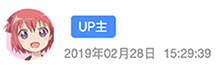
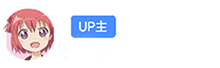
color picker

Changed region(s): [[0.2727, 0.6765, 0.7091, 0.8824], [0.7364, 0.7059, 0.9818, 0.8529], [0.3545, 0.5294, 0.4364, 0.5588]]

diff --git a/index.html b/index.html
@@ -71,6 +71,14 @@
             text-indent: 127px;
             line-height: 54px;
         }
+        .posttime{
+            color: #999;
+            line-height: normal;
+               text-indent: 70px;
+               font-size: 12px;
+               height: 12px;
+               margin-top: -10px;
+        }
         .hexgon{
             width: 150px;
             height: 150px;
@@ -104,17 +112,34 @@
         <input type="text" id="comment" class="form-control input-sm"  v-model="comment" >
     </div>
     <div class="form-group">
-        <label for="content">内容</label>
+        <label for="content">内容 <button class="btn btn-sm btn-danger"  @click="content = ''">清空</button></label>
         <textarea id="content" class="form-control input-sm"  v-model="content" rows="7"></textarea>
     </div>
     <div class="form-group">
         <label for="summary">总评</label>
         <input type="text" id="summary" class="form-control input-sm"  v-model="summary" >
     </div>
-    <div class="form-group">
+  
+     <div class="form-group">  
         <label for="score">评分</label>
         <input type="range" id="score" class="form-control input-sm"  v-model.number="score" max="10" min="0" step="0.1">
+
     </div>
+      <div class="form-group">
+        <div class="col-md-4">
+             <label for="startcolor">0分色</label>
+            <input type="color" id="startcolor" class="form-control input-sm"  v-model="startcolor" >
+        </div>
+       
+        <div class="col-md-4">
+             <label for="endcolor">10分色</label>
+             <input type="color" id="endcolor" class="form-control input-sm"  v-model="endcolor" >
+        </div>
+        <div class="col-md-4">
+             <button class="btn btn-default"  @click="defaultColor">默认颜色</button>
+        </div>
+        <div class="clearfix"></div>
+      </div>
      <div class="form-group">
         <label for="content">预览
             <button class="btn btn-sm btn-success" v-if="acid" @click="captureImage">下载</button>
@@ -127,7 +152,11 @@
             <div class="preview" >
                 <div class="col-md-6 col-xs-6 col-sm-6" style="position: relative">
                     <p class="text-overflow h4 title">{{title}}</p>
-                    <div class="text-overflow author">{{author}}</div>
+                    <div class="text-overflow author">{{author}}
+                    <div class="posttime" v-if="posttime">
+                        {{moment(posttime).format('YYYY年MM月DD日 HH:mm:ss')}}
+                    </div>
+                    </div>
                     <div class="score">
                           <div id="canvas" class="hexgon">
         
@@ -173,9 +202,12 @@
                 article:'',
                 author:'',
                 acid:'',
+                posttime:'',
                 uploadUrl:'',
                 layer:'',
                 hexgon:'',
+                startcolor:'#b9e589',
+                endcolor:'#294e01',
                 colors:[],
                 bgc:"1"
             }
@@ -186,33 +218,31 @@
                 alert('复制成功')
                 e.clearSelection();
             });
-            this. getRgb();
+            this.getRgb(this.hexToRgb(this.startcolor),this.hexToRgb(this.endcolor));
             this.$nextTick(()=>{
                   var stage = new Konva.Stage({
               container: 'canvas',   // id of container <div> 
               width: 150,
               height: 150
             });
-
             // then create layer 
             this.layer = new Konva.Layer();
-
             // create our shape 
             this.hexgon = new Konva.RegularPolygon({
-              x: 75,
-              y: 75,
-              radius: 60,
-              sides: 6,
-              fill: '#294e01',
-              stroke: 'white',
+                x: 75,
+                y: 75,
+                radius: 60,
+                sides: 6,
+                fill: '#294e01',
+                stroke: 'white',
                 shadowColor: 'grey',
                 shadowBlur: 10,
                 shadowOffset: {
                     x : 0,
                     y : 0
                 },
-            shadowOpacity: 0.6,
-            strokeWidth: 7
+                shadowOpacity: 0.6,
+                strokeWidth: 7
             });
 
             // add the shape to the layer 
@@ -227,16 +257,29 @@
                 localStorage.setItem("comment",nv)
             },
             score(nv){
-                this.hexgon.attrs.fill = this.colors[nv*10]
-                this.layer.draw()
-                console.log(this.colors[nv*10],nv*10)
-                this.bgc = this.colors[nv*10]
+                this.colorChange()
+            },
+            startcolor(nv){
+                this.colorChange()
+            }, 
+            endcolor(nv){
+                this.colorChange()
             }
         },
         methods:{
-            getRgb(){
-                let end = {r:41,g:78,b:1}
-                let start = {r:185,g:229,b:137}
+            defaultColor(){
+                this.startcolor = '#b9e589'
+                this.endcolor = '#294e01'
+                this.colorChange()
+            },
+            colorChange(){
+                this.getRgb(this.hexToRgb(this.startcolor),this.hexToRgb(this.endcolor));
+                this.hexgon.attrs.fill = this.colors[this.score*10]
+                this.bgc = this.colors[this.score*10]
+                this.layer.draw()
+            },
+            getRgb(start,end){
+                this.colors = []
                 this.colors.push(this.getHex(start));
                 let step = {
                     r:parseInt((end.r - start.r)/99),g:parseInt((end.g - start.g)/99),b:parseInt((end.b - start.b)/99)
@@ -253,6 +296,14 @@
                     }))
                 }
                    this.colors.push(this.getHex(end));
+            },
+            hexToRgb(hexstr){
+                let result = /^#?([a-f\d]{2})([a-f\d]{2})([a-f\d]{2})$/i.exec(hexstr);
+                return result ? {
+                    r: parseInt(result[1], 16),
+                    g: parseInt(result[2], 16),
+                    b: parseInt(result[3], 16)
+                } : null;
             },
             getHex(rgb){
                 let hexstr = '#'
@@ -294,6 +345,7 @@
                         if(res.data.code === 200){
                             this.title = res.data.data.title
                             this.author = res.data.data.owner.name
+                            this.posttime = new Date(res.data.data.releaseDate)
                         }
                     })
                     this.acid = `ac${aid}`
